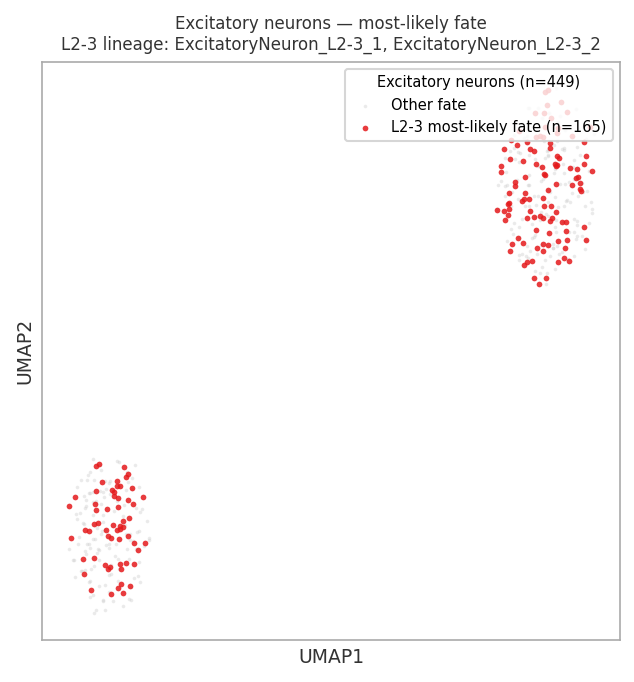
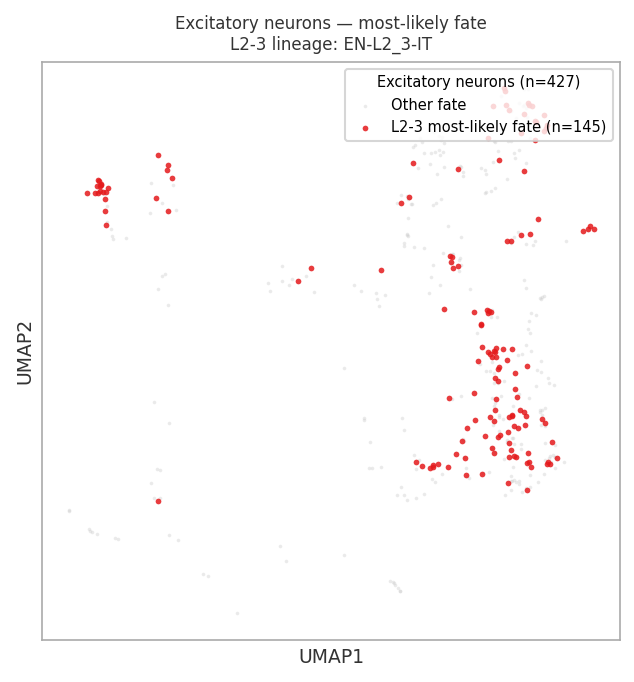
update and debug

diff --git a/code/CellRank2/run_pipeline.py b/code/CellRank2/run_pipeline.py
@@ -102,6 +102,7 @@ def run(config: CellRankConfig) -> ad.AnnData:
     # inclusion causes _restich_couplings to fail.
     bin_ages(adata, config, logger)
     valid_mask = adata.obs[config.age_bin_key].notna()
+    cells_removed = False
     if not valid_mask.all():
         n_excl = int((~valid_mask).sum())
         logger.warning(
@@ -110,10 +111,25 @@ def run(config: CellRankConfig) -> ad.AnnData:
             "the input h5ad but excluded from CellRank analysis."
         )
         adata = adata[valid_mask].copy()
+        cells_removed = True
         logger.info(f"  Retaining {adata.n_obs} cells for CellRank analysis.")
 
     # ── NEIGHBORS ──────────────────────────────────────────────────────────────
-    if "neighbors" in steps:
+    # Always (re)compute the kNN graph after filtering.  If cells were removed
+    # the precomputed graph is a subset of the original and some rows may be
+    # all-zero (all neighbours fell in the excluded set), making the
+    # ConnectivityKernel transition matrix non-row-stochastic.
+    nk = config.neighbors_key
+    if cells_removed and nk in adata.uns:
+        logger.info(
+            f"  Cells were removed after binning — dropping stale neighbour "
+            f"graph '{nk}' and recomputing on the filtered subset."
+        )
+        adata.uns.pop(nk, None)
+        adata.obsp.pop(f"{nk}_connectivities", None)
+        adata.obsp.pop(f"{nk}_distances", None)
+
+    if "neighbors" in steps or cells_removed:
         logger.info("─" * 40)
         logger.info("STEP: neighbors")
         ensure_neighbors(adata, config, logger)
@@ -176,7 +192,11 @@ def run(config: CellRankConfig) -> ad.AnnData:
 
         if config.save_plots:
             plot_fate_probabilities(adata, g, config, logger)
-            plot_excitatory_l23_fate_umap(adata, g, config, logger)
+            plot_excitatory_l23_fate_umap(
+                adata, g, config, logger,
+                excitatory_pattern=config.excitatory_cell_type_pattern,
+                l23_pattern=config.l23_lineage_pattern,
+            )
 
         # Lineage subsetting
         if config.lineage_targets:

diff --git a/code/CellRank2/config.py b/code/CellRank2/config.py
@@ -67,6 +67,13 @@ class CellRankConfig:
     )
     umap_key: str = "X_umap_scanvi"    # obsm key for UMAP (used in plots)
     point_size: float = 1.0
+    # Patterns used by plot_excitatory_l23_fate_umap.
+    # excitatory_cell_type_pattern: case-insensitive regex matched against
+    #   cell_type_key to identify excitatory neurons (e.g. "EN-" or "excit|EN-").
+    # l23_lineage_pattern: case-insensitive substring matched against
+    #   terminal-state names to pick the L2-3 lineage.
+    excitatory_cell_type_pattern: str = "excit|EN-"
+    l23_lineage_pattern: str = "l2"
 
     # -- Pipeline control --
     steps: List[str] = field(

diff --git a/code/CellRank2/test_pipeline.py b/code/CellRank2/test_pipeline.py
@@ -11,7 +11,7 @@ Usage (from project root):
 
     # Point at the real data (subsample to 2000 cells):
     PYTHONPATH=code python -m CellRank2.test_pipeline \\
-        --input rds-cam-psych-transc-Pb9UGUlrwWc/Cam_snRNAseq/combined/pipeline_test/scvi_output/integrated.h5ad \\
+        --input rds-cam-psych-transc-Pb9UGUlrwWc/Cam_snRNAseq/integrated/scvi_output/integrated.h5ad \\
         --n_cells 2000 \\
         --output_dir /tmp/cellrank_test
 """
